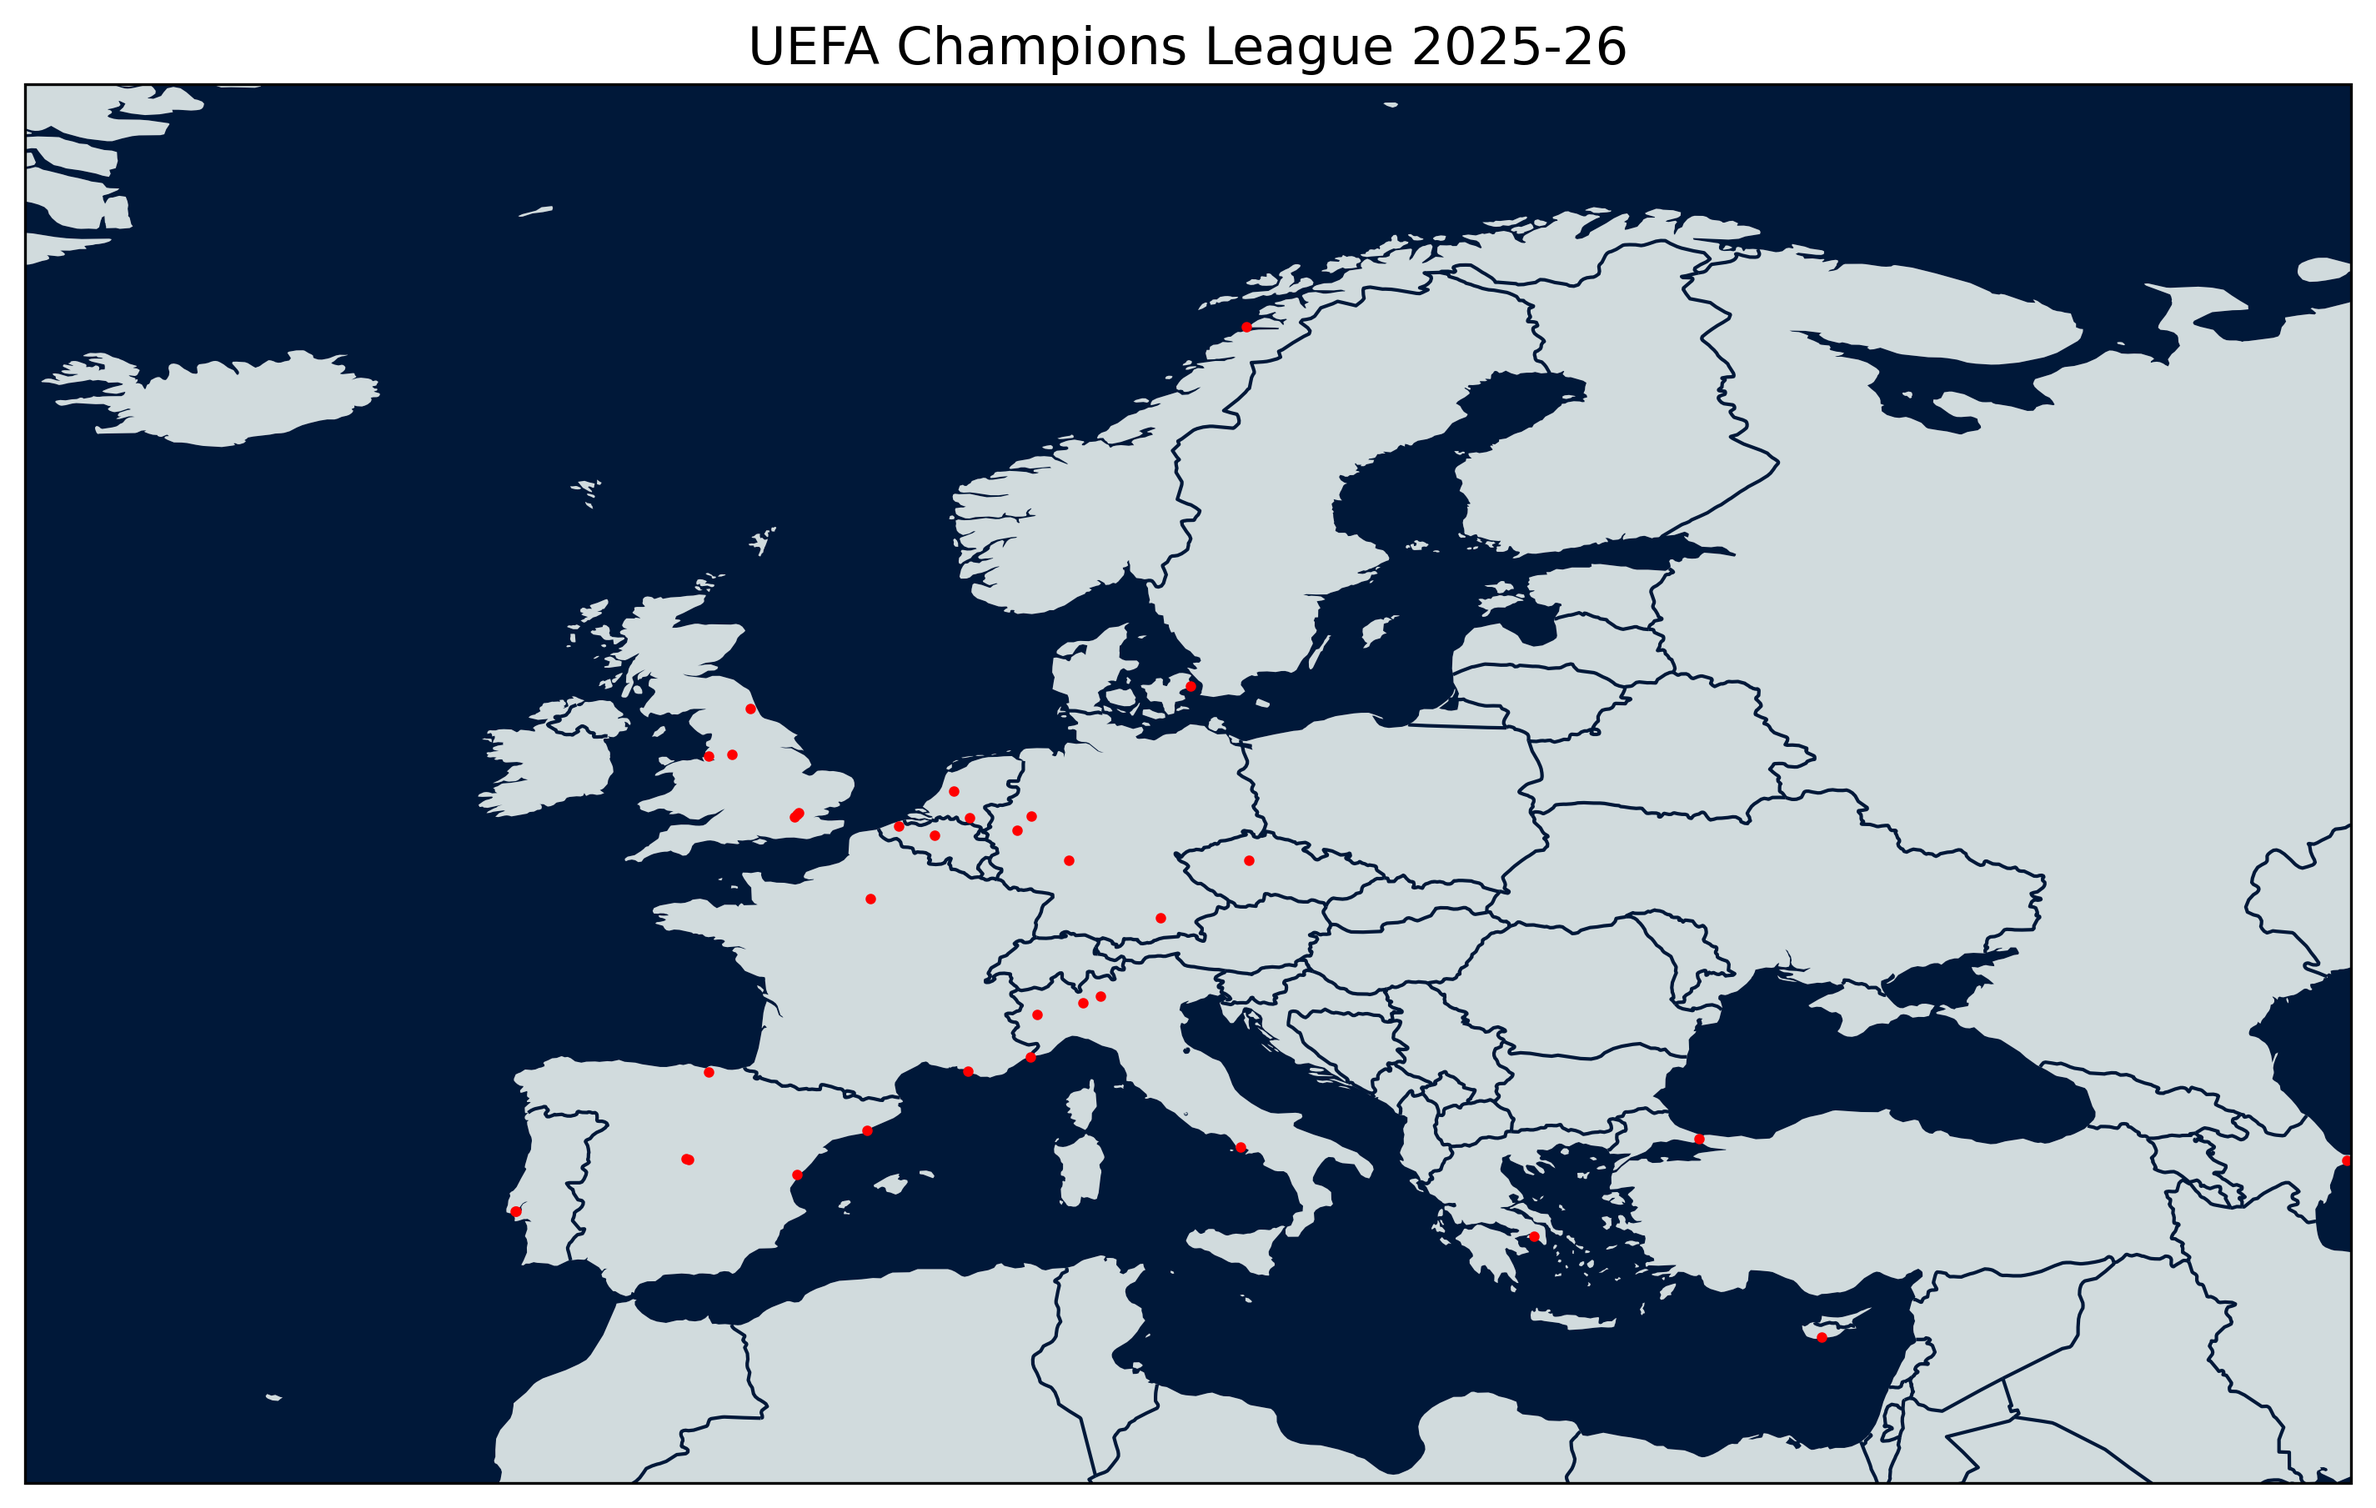
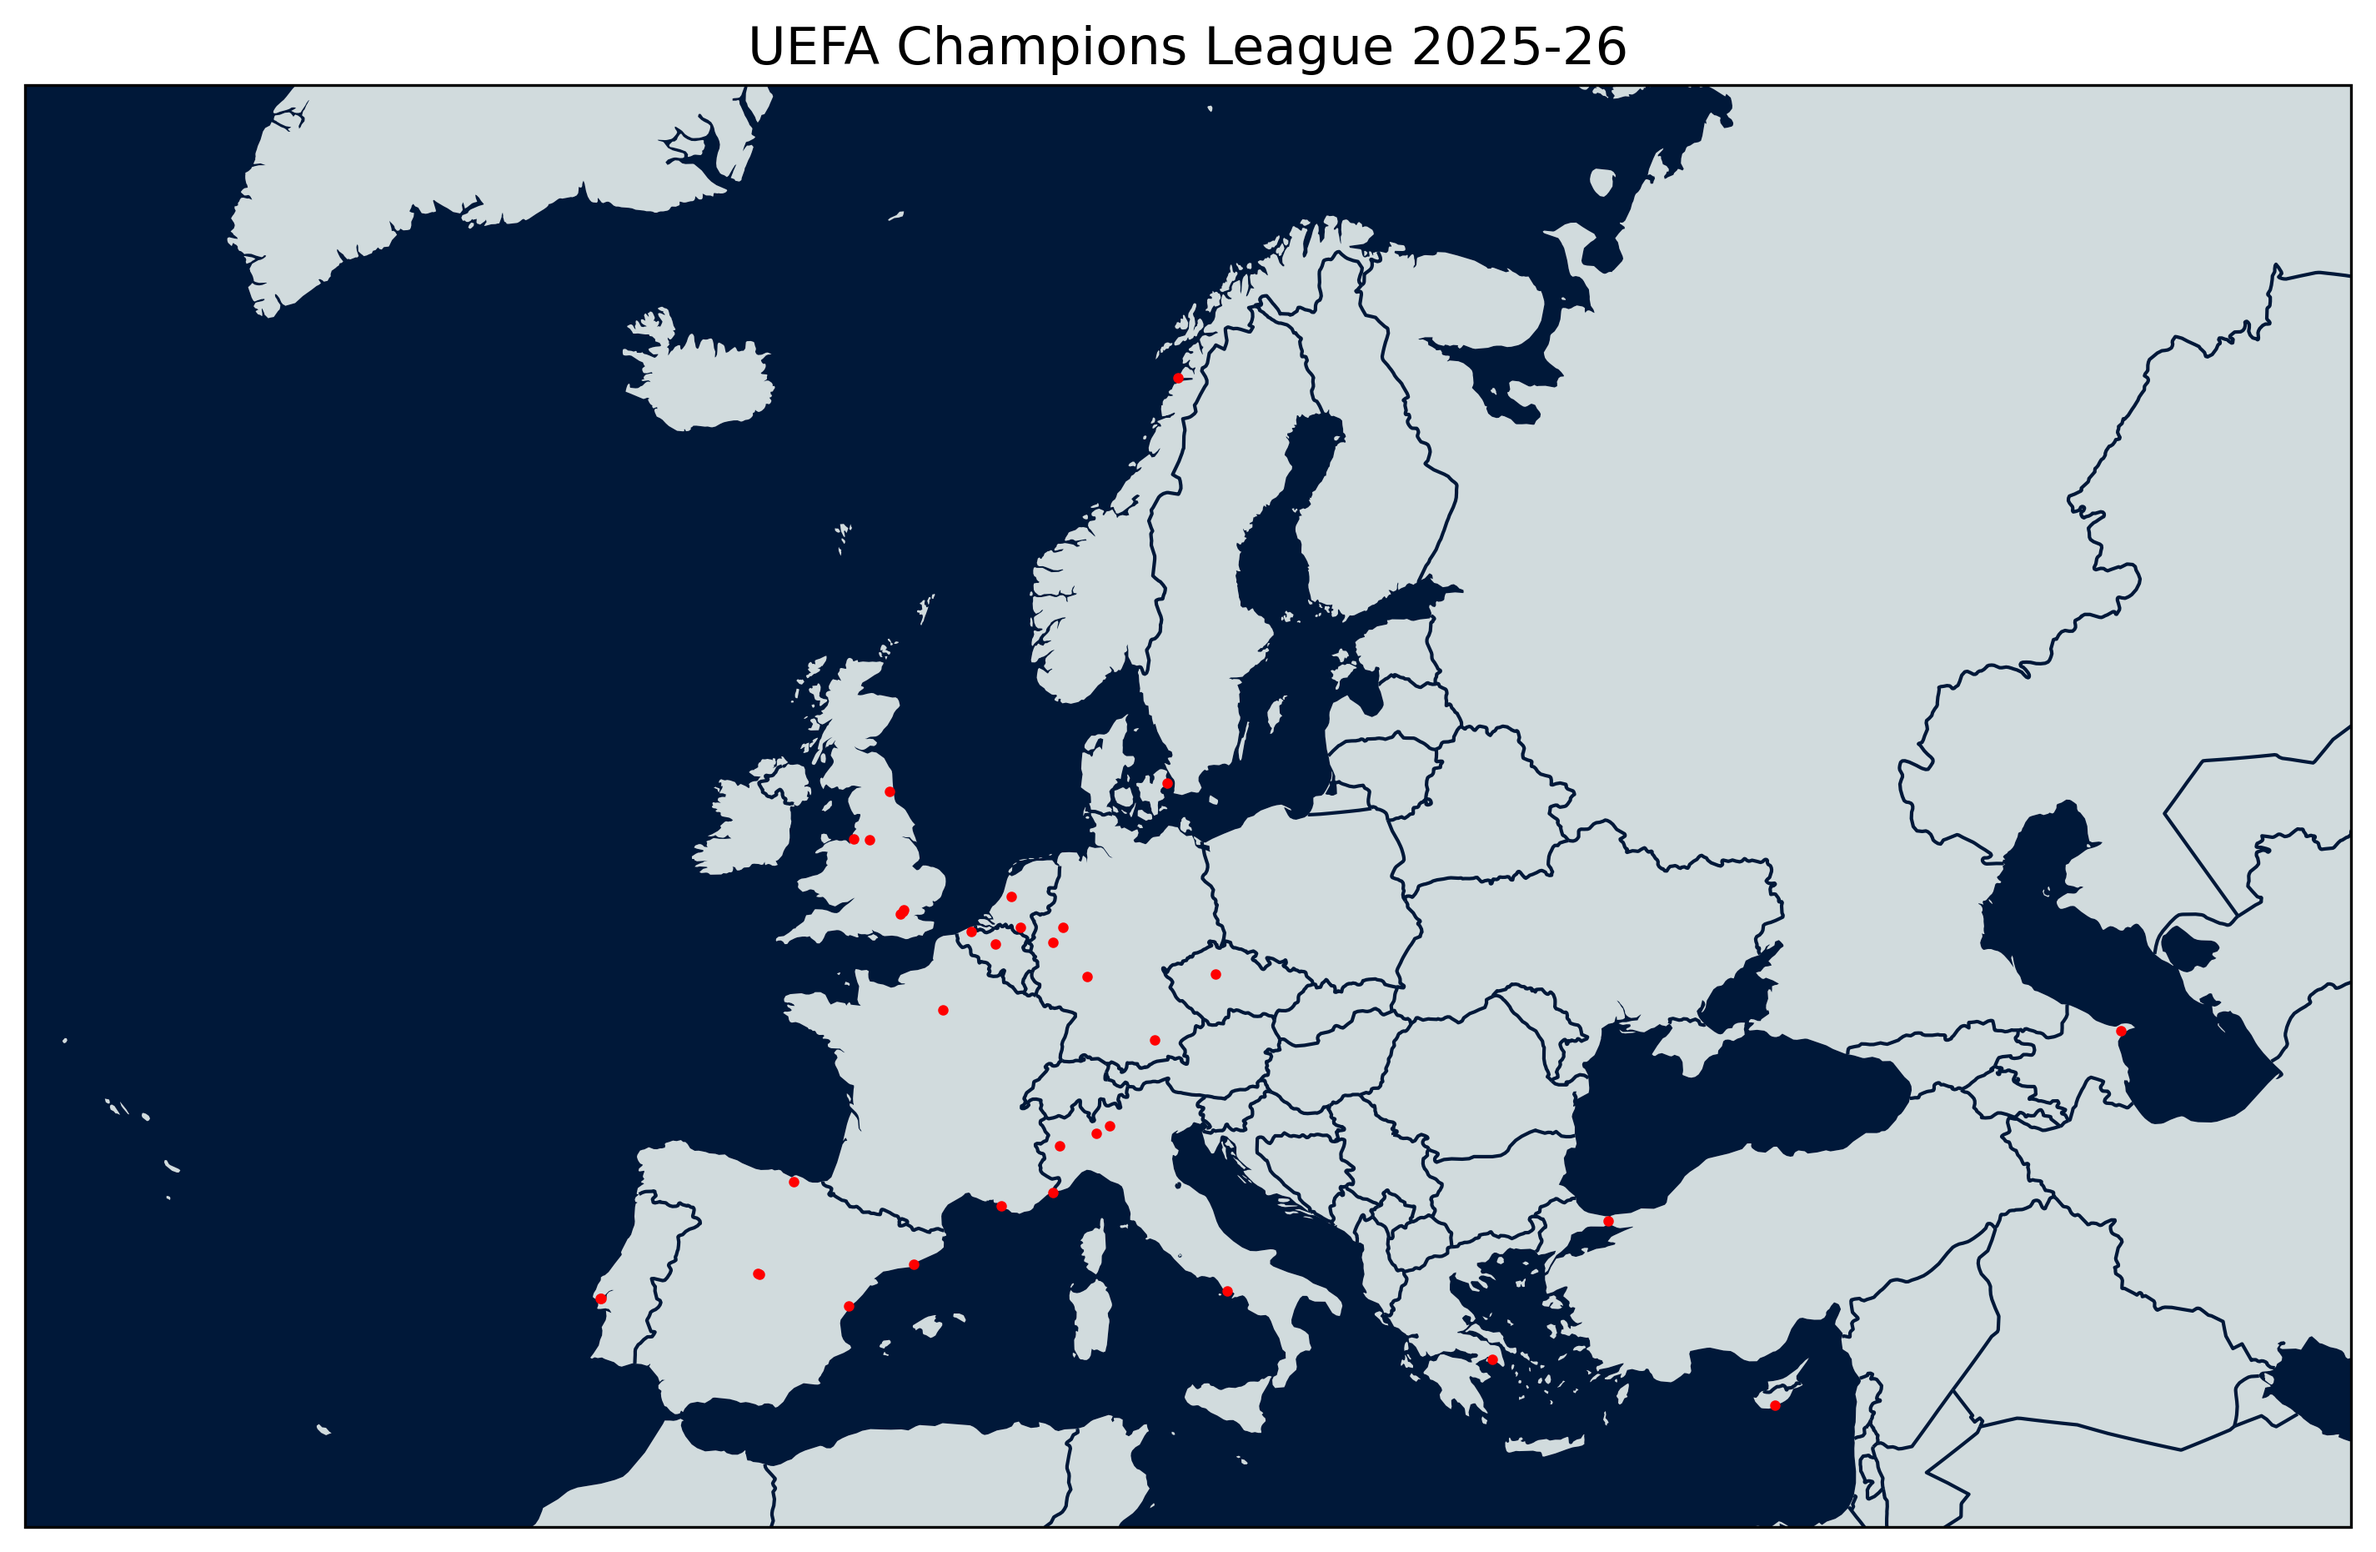
Added UEFA Europa & Conference League

diff --git a/ConferenceLeague/ConferenceLeague2025-26.py b/ConferenceLeague/ConferenceLeague2025-26.py
@@ -1,0 +1,57 @@
+import matplotlib.pyplot as plt
+import cartopy.crs as ccrs
+import cartopy.feature as cfeature
+
+fig, ax = plt.subplots(figsize=(12, 10), subplot_kw={'projection': ccrs.LambertConformal(
+                                                    central_longitude=10, central_latitude=52, standard_parallels=(35, 65))
+                                                    })
+ax.add_feature(cfeature.BORDERS, edgecolor='#064627')
+ax.add_feature(cfeature.LAND, facecolor='#d1dbdd')
+ax.add_feature(cfeature.OCEAN, facecolor='#064627')
+ax.set_extent([-25, 50, 28, 72])
+
+teams = {
+    "Aberdeen": (57.15928842855907, -2.088765231444451),
+    "AEK Athens": (38.03720222237312, 23.741576096319555),
+    "AEK Larnaca": (34.926261544560084, 33.597692767345436),
+    "AZ Alkmaar": (52.61280418559293, 4.742039594429526),
+    "Breiðablik": (64.10413610503072, -21.896775802978173),
+    "Celje": (46.24646081032184, 15.269942610225852),
+    "Crystal Palace": (51.39832772927898, -0.0854413364029441),
+    "Drita": (42.66287546066295, 21.157021981199094),
+    "Dynamo Kyiv": (50.43326418966111, 30.521860809053564),
+    "Fiorentina": (43.78078670467991, 11.28267415886934),
+    "Häcken": (57.719205903816786, 11.930687997428477),
+    "Hamrun Spartans": (35.894847946638095, 14.415234296223476),
+    "Jagiellonia": (53.105904954077715, 23.149095325971675),
+    "KuPS Kuopio": (62.88462930674909, 27.671870668940713),
+    "Lausanne-Sport": (46.54363708838068, 6.621969739078642),
+    "Lech Poznań": (52.39771916500646, 16.858068839419126),
+    "Legia Warszawa": (52.22046534086816, 21.040738126651544),
+    "Lincoln Red Imps": (36.149262762508215, -5.350203132601763),
+    "Mainz": (49.983942118135175, 8.224379386563536),
+    "Noah": (40.26849904418598, 44.63526050991609),
+    "Omonoia": (35.11453327883146, 33.36288444564949),
+    "Raków": (50.7767358546731, 19.159211655668404),
+    "Rayo Vallecano": (40.39188220078775, -3.658621672877595),
+    "Rijeka": (45.347898599696954, 14.40220499860407),
+    "Samsunspor": (41.22797891675911, 36.457686638799515),
+    "Shakhtar Donetsk": (48.021194549545605, 37.81016423521044),
+    "Shamrock Rovers": (53.28353527227477, -6.373694060526607),
+    "Shelbourne": (53.360767102808445, -6.251099188316838),
+    "Shkëndija": (42.005724898872565, 21.425585567674897),
+    "Sigma Olomouc": (49.60014862499777, 17.248205639252262),
+    "SK Rapid": (48.19803727403955, 16.266020996844297),
+    "Slovan Bratislava": (48.16321997838616, 17.13686247910215),
+    "Sparta Praha": (50.0998418281038, 14.415921718421096),
+    "Strasbourg": (48.56004227489608, 7.755098710355716),
+    "Universitatea Craiova": (44.314040147797385, 23.784295967794336),
+    "Zrinjski Mostar": (43.34569818255276, 17.795370496579938)
+}
+
+for team, (lat, lon) in teams.items():
+    ax.plot(lon, lat, 'ro', markersize=2, transform=ccrs.PlateCarree(), label='')
+
+plt.title('UEFA Conference League 2025-26', fontsize=15)
+plt.savefig('ConferenceLeague/UEFA Conference League 2025-26.png', dpi=300, bbox_inches='tight')
+plt.show()

diff --git a/EuropaLeague/EuropaLeague2025-26.py b/EuropaLeague/EuropaLeague2025-26.py
@@ -1,0 +1,57 @@
+import matplotlib.pyplot as plt
+import cartopy.crs as ccrs
+import cartopy.feature as cfeature
+
+fig, ax = plt.subplots(figsize=(12, 10), subplot_kw={'projection': ccrs.LambertConformal(
+                                                    central_longitude=10, central_latitude=52, standard_parallels=(35, 65))
+                                                    })
+ax.add_feature(cfeature.BORDERS, edgecolor='#3c0604')
+ax.add_feature(cfeature.LAND, facecolor='#d1dbdd')
+ax.add_feature(cfeature.OCEAN, facecolor='#3c0604')
+ax.set_extent([-25, 50, 28, 72])
+
+teams = {
+    "Aston Villa": (52.50914432178864, -1.884825718246934),
+    "Basel": (47.541596613740765, 7.620054139134276),
+    "Bologna": (44.49232723786205, 11.309986625476608),
+    "Braga": (41.56253537122213, -8.42986900401819),
+    "Brann": (60.36696879913837, 5.3574700976046685),
+    "Celta": (42.21192801768349, -8.739750732314674),
+    "Celtic": (55.849720495921545, -4.205601689201734),
+    "Crvena Zvezda": (44.78321118615926, 20.464948254328448),
+    "FCSB": (44.43729153165402, 26.152539996637334),
+    "Fenerbahçe": (40.98769646736312, 29.036858109951133),
+    "Ferencváros": (47.475398871182655, 19.09525419680334),
+    "Feyenoord": (51.89389757679882, 4.523170039388487),
+    "Freiburg": (48.02164567516248, 7.829685096834258),
+    "Genk": (51.005027849900536, 5.533384022588333),
+    "GNK Dinamo": (45.8187095483452, 16.017984267875253),
+    "Go Ahead Eagles": (52.26039930728451, 6.172543910574317),
+    "Lille": (50.61191029027531, 3.130473980097893),
+    "Ludogorets": (43.53464024906989, 26.527571481244223),
+    "Lyon": (45.76522435552268, 4.982030196708722),
+    "Maccabi Tel-Aviv": (32.05171548711724, 34.76153179606482),
+    "Malmö": (55.583651765942186, 12.987771497789314),
+    "Midtjylland": (56.11688943588704, 8.951690210815393),
+    "Nice": (43.70510885253582, 7.192609477389489),
+    "Nott'm Forest": (52.93994683626029, -1.1328721925531924),
+    "Panathinaikos": (38.03617218107934, 23.787610326731517),
+    "PAOK": (40.61384421996823, 22.972258677816495),
+    "Porto": (41.16177797467342, -8.583593197021917),
+    "Rangers": (55.85317799538706, -4.3092793315287246),
+    "Real Betis": (37.35651775636523, -5.981700974875139),
+    "Roma": (41.93388355800951, 12.454684807810292),
+    "Salzburg": (47.81627581734365, 12.998213511199374),
+    "Sturm Graz": (47.04639352883885, 15.454762920987893),
+    "Stuttgart": (48.792285869636906, 9.232069250517972),
+    "Utrecht": (52.07839014699095, 5.145813668236076),
+    "Viktoria Plzeň": (49.750009230068265, 13.385227822070291),
+    "Young Boys": (46.96314525369974, 7.464885307903546)
+}
+
+for team, (lat, lon) in teams.items():
+    ax.plot(lon, lat, 'ro', markersize=2, transform=ccrs.PlateCarree(), label='')
+
+plt.title('UEFA Europa League 2025-26', fontsize=15)
+plt.savefig('EuropaLeague/UEFA Europa League 2025-26.png', dpi=300, bbox_inches='tight')
+plt.show()

diff --git a/ChampionsLeague/ChampionsLeague2025-26-Eurasia.py b/ChampionsLeague/ChampionsLeague2025-26-Eurasia.py
@@ -3,12 +3,12 @@ import cartopy.crs as ccrs
 import cartopy.feature as cfeature
 
 fig, ax = plt.subplots(figsize=(12, 10), subplot_kw={'projection': ccrs.LambertConformal(
-                                                    central_longitude=10, central_latitude=52, standard_parallels=(35, 65))
+                                                    central_longitude=60, central_latitude=45, standard_parallels=(30, 60))
                                                     })
 ax.add_feature(cfeature.BORDERS, edgecolor='#001839')
 ax.add_feature(cfeature.LAND, facecolor='#d1dbdd')
 ax.add_feature(cfeature.OCEAN, facecolor='#001839')
-ax.set_extent([-25, 50, 28, 72])
+ax.set_extent([20, 90, 30, 60])
 
 teams = {
     "Ajax": (52.31437534854556, 4.941837968250409),
@@ -53,6 +53,6 @@ for team, (lat, lon) in teams.items():
     ax.plot(lon, lat, 'ro', markersize=2, transform=ccrs.PlateCarree(), label='')
 
 
-plt.title('UEFA Champions League 2025-26', fontsize=15)
-plt.savefig('ChampionsLeague/UEFA Champions League 2025-26.png', dpi=300, bbox_inches='tight')
+plt.title('UEFA Champions League 2025-26 (Eurasia)', fontsize=15)
+plt.savefig('ChampionsLeague/UEFA Champions League 2025-26 (Eurasia).png', dpi=300, bbox_inches='tight')
 plt.show()
